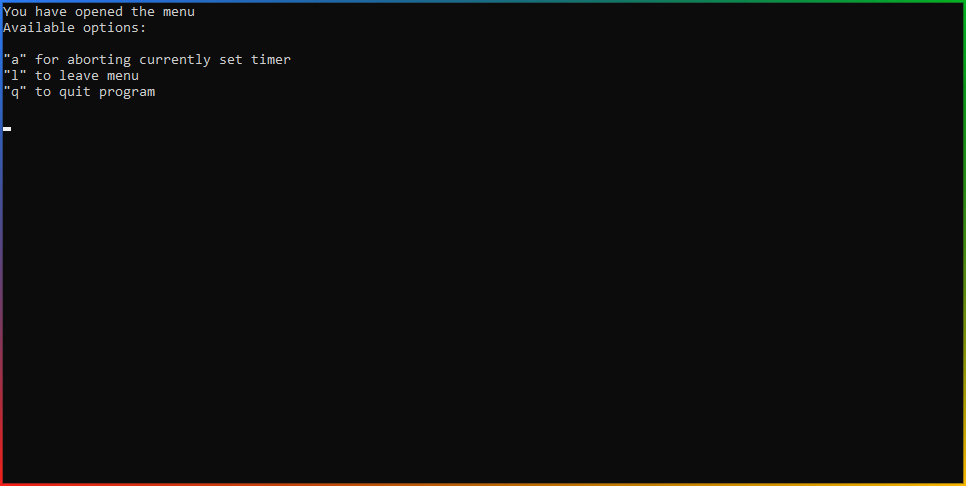
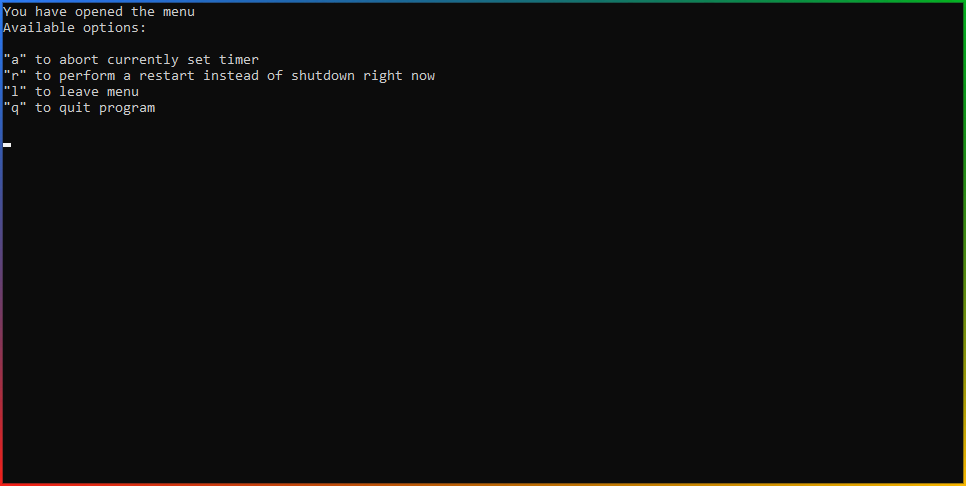
Added option to restart instead of shutdown to the menu

Changed region(s): [[0.0, 0.0926, 0.4658, 0.2469]]

diff --git a/main.c b/main.c
@@ -177,6 +177,10 @@ int validateInput(times *mainTimes, char *input, int size, bool *hasNumber)
     stringToNumber(mainTimes);
     return 4;
 }
+
+/*
+ returning true quits the program, false loops over initilize() again
+*/
 bool initialize()
 {
 
@@ -220,7 +224,8 @@ bool initialize()
 
         printf("You have opened the menu\n");
         printf("Available options:\n\n");
-        printf("\"a\" for aborting currently set timer\n");
+        printf("\"a\" to abort currently set timer\n");
+        printf("\"r\" to perform a restart instead of shutdown right now\n");
         printf("\"l\" to leave menu\n");
         printf("\"q\" to quit program\n\n");
 
@@ -233,6 +238,13 @@ bool initialize()
             system(command);
 
             printf("\nNo Error message above means shutdown canceled succesfully\n");
+            return true;
+        }
+
+        if (!(strncmp(inputMenu, "r", 1)))
+        {
+            printf("Pc will restart any second!\n");
+            system("shutdown -r");
             return true;
         }
 
@@ -259,7 +271,7 @@ bool initialize()
         printf("%s?\n", input);
         printf("%s Bananas? Eggs? Watermelons?\n", input);
         return true;
-
+        //
     case 3:
 
         printf("Why the fuck do you want a single measurement twice? I'm not a calculator\n");
